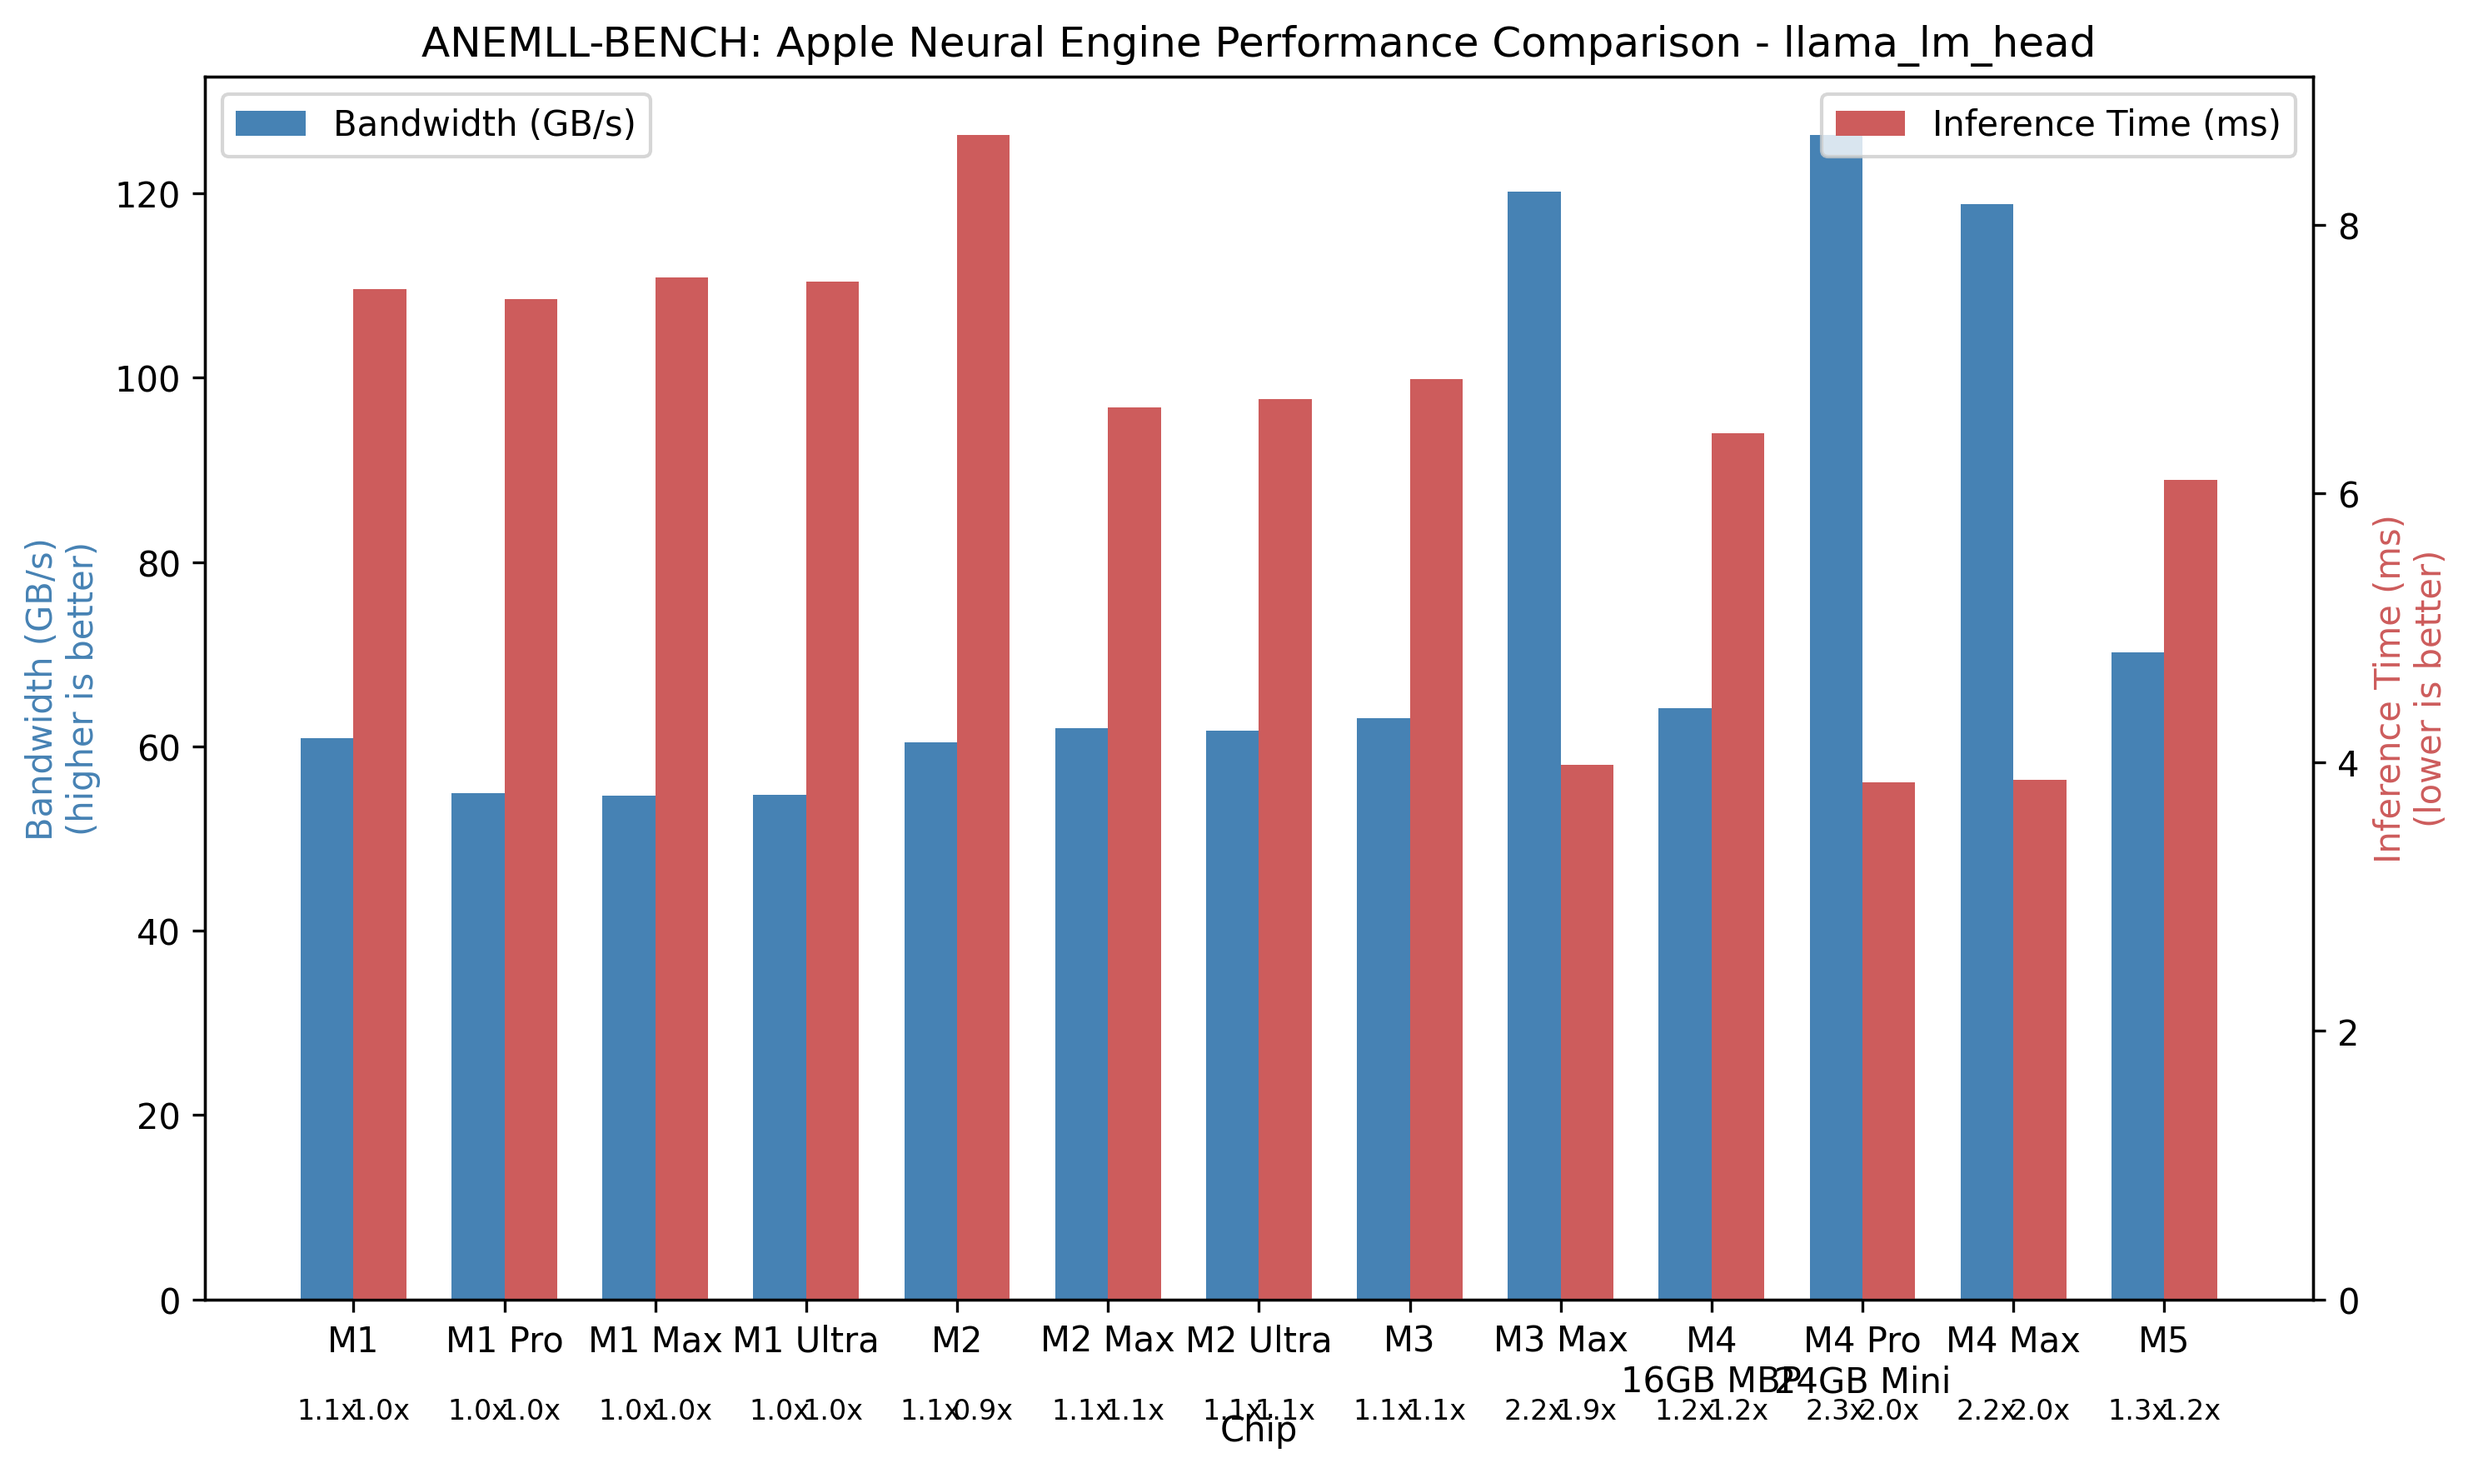
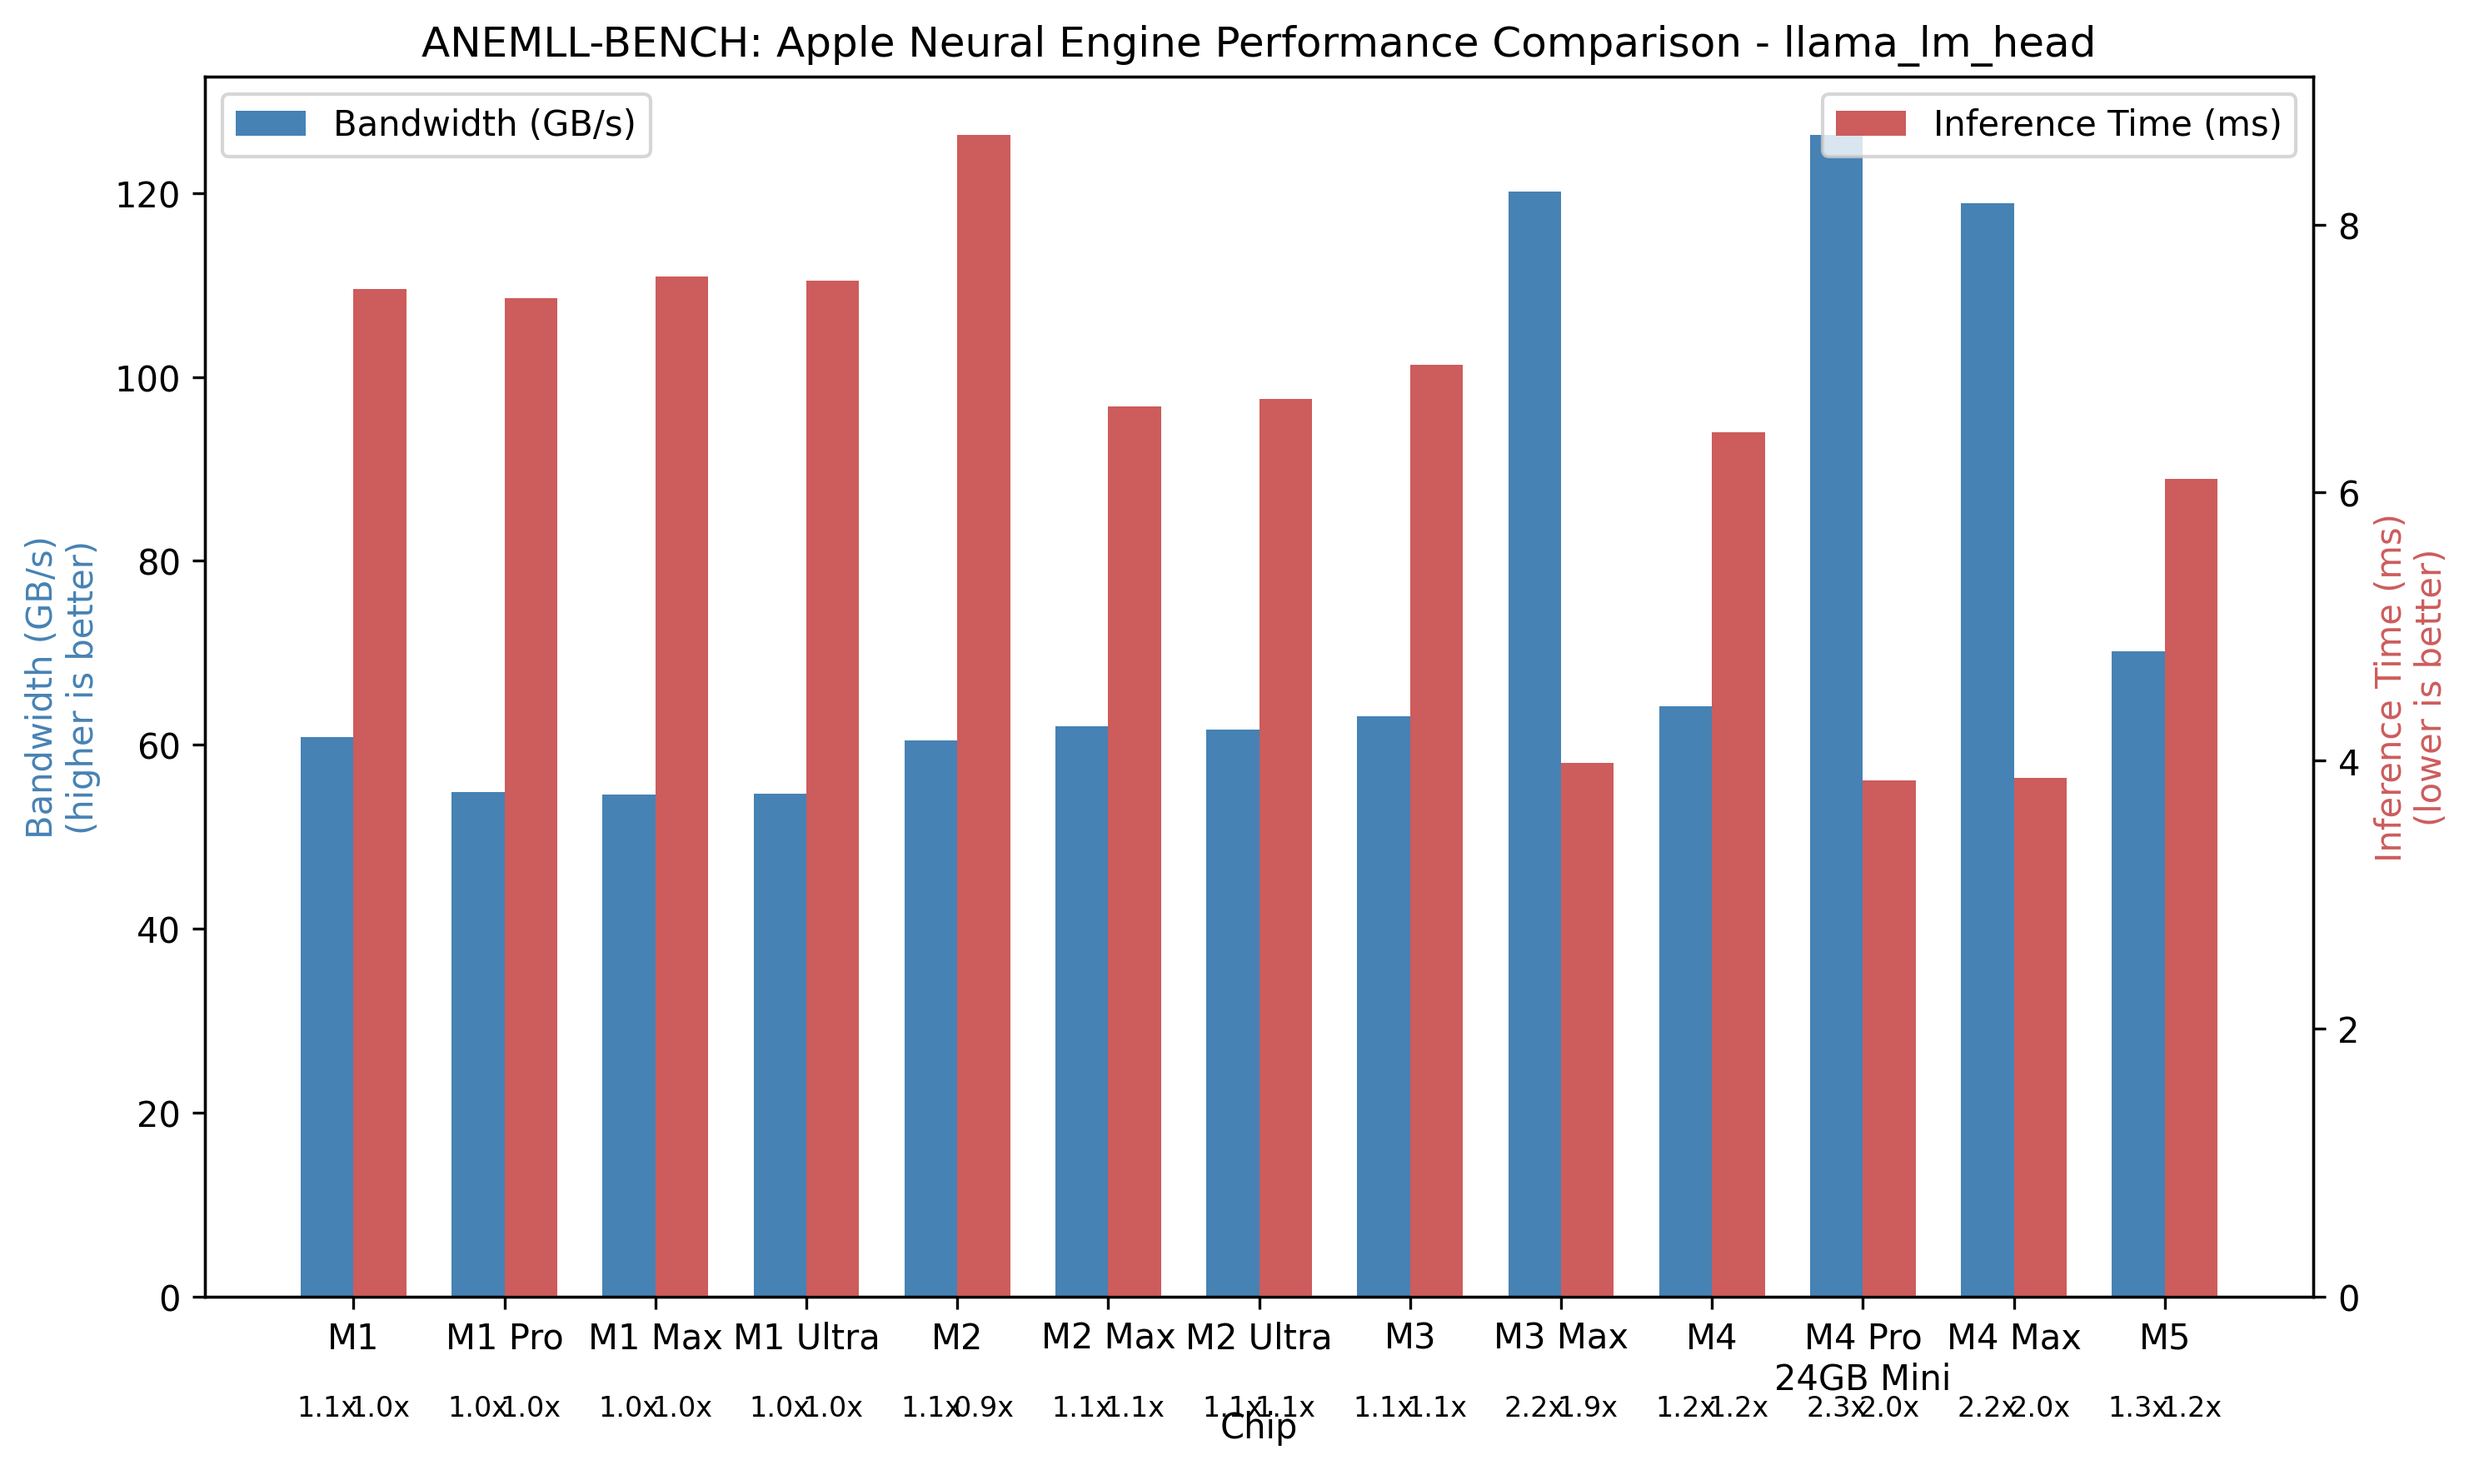
Fixed M3 inference time

diff --git a/examples/plot_chip_comparison.py b/examples/plot_chip_comparison.py
@@ -8,6 +8,9 @@ import os
 import sys
 import argparse
 from pathlib import Path
+import matplotlib
+# Force non-interactive backend for headless PNG generation
+matplotlib.use('Agg')
 
 # Add parent directory to path to allow running this script directly
 parent_dir = str(Path(__file__).resolve().parent.parent)
@@ -25,9 +28,9 @@ def main():
     args = parser.parse_args()
 
     # Sample data from llama_lm_head model benchmarks
-    chips = ['M1', 'M1 Pro', 'M1 Max', 'M1 Ultra', 'M2', 'M2 Max', 'M2 Ultra', 'M3', 'M3 Max', 'M4\n16GB MBP', 'M4 Pro\n24GB Mini', 'M4 Max', 'M5']
+    chips = ['M1', 'M1 Pro', 'M1 Max', 'M1 Ultra', 'M2', 'M2 Max', 'M2 Ultra', 'M3', 'M3 Max', 'M4', 'M4 Pro\n24GB Mini', 'M4 Max', 'M5']
     bandwidth = [60.87, 54.90, 54.62, 54.72, 60.45, 62.01, 61.68, 63.10, 120.22, 64.18, 126.36, 118.88, 70.21]  # GB/s (llama_lm_head)
-    inference = [7.52, 7.45, 7.61, 7.58, 8.67, 6.64, 6.70, 6.85, 3.98, 6.45, 3.85, 3.87, 6.10]           # ms (llama_lm_head_lut6 for M3 base)
+    inference = [7.52, 7.45, 7.61, 7.58, 8.67, 6.64, 6.70, 6.95, 3.98, 6.45, 3.85, 3.87, 6.10]           # ms (llama_lm_head_lut6 for M3 base)
     bandwidth_factor = ['1.1x', '1.0x', '1.0x', '1.0x', '1.1x', '1.1x', '1.1x', '1.1x', '2.2x', '1.2x', '2.3x', '2.2x', '1.3x']
     inference_factor = ['1.0x', '1.0x', '1.0x', '1.0x', '0.9x', '1.1x', '1.1x', '1.1x', '1.9x', '1.2x', '2.0x', '2.0x', '1.2x']
 

diff --git a/examples/generate_results_report.py b/examples/generate_results_report.py
@@ -44,7 +44,7 @@ def generate_visualizations(args):
     
     # Sample data from benchmark results
     # In a real implementation, this would come from parsing the benchmark results file
-    chips = ['M1', 'M1 Pro', 'M1 Max', 'M1 Ultra', 'M2', 'M2 Max', 'M2 Ultra', 'M3 Max', 'M4\n16GB MBP', 'M4 Pro\n24GB Mini', 'M4 Max']
+    chips = ['M1', 'M1 Pro', 'M1 Max', 'M1 Ultra', 'M2', 'M2 Max', 'M2 Ultra', 'M3 Max', 'M4', 'M4 Pro\n24GB Mini', 'M4 Max']
     bandwidth = [60.87, 54.90, 54.62, 54.72, 60.45, 62.01, 61.68, 120.22, 64.18, 126.36, 118.88]  # GB/s (llama_lm_head)
     inference = [7.52, 7.45, 7.61, 7.58, 8.67, 6.64, 6.70, 3.98, 6.45, 3.85, 3.87]           # ms (llama_lm_head_lut6)
     bandwidth_factor = ['1.1x', '1.0x', '1.0x', '1.0x', '1.1x', '1.1x', '1.1x', '2.2x', '1.2x', '2.3x', '2.2x']

diff --git a/Results.MD b/Results.MD
@@ -20,7 +20,7 @@ Higher memory bandwidth and lower inference time indicate better performance.
 
 The chart below shows performance comparison across Apple Silicon generations for the `llama_lm_head` model:
 
-![Apple Silicon Performance Comparison](./reports/chip_comparison_llama_lm_head.png?v=20251028_v5)
+![Apple Silicon Performance Comparison](./reports/chip_comparison_llama_lm_head.png?v=20251029_v1)
 
 As shown in the visualization:
 - **M4 Series** chips demonstrate approximately 2.3x higher memory bandwidth compared to M1 series
@@ -42,9 +42,9 @@ As shown in the visualization:
 | M2 | 60.45 | 8.67 | 1.1x | 0.9x |
 | M2 Max | 62.01 | 6.64 | 1.1x | 1.1x |
 | M2 Ultra | 61.68 | 6.70 | 1.1x | 1.1x |
-| M3 | 63.10 | 16.65 | 1.2x | 0.5x |
+| M3 | 63.10 | 6.95 | 1.2x | 1.1x |
 | M3 Max | 120.22 | 3.98 | 2.2x | 1.9x |
-| M4 16GB MBP  | 64.18 | 6.45 | 1.2x | 1.2x |
+| M4 | 64.18 | 6.45 | 1.2x | 1.2x |
 | M4 Pro 24GB Mini| 126.36 | 3.85 | 2.3x | 2.0x |
 | M4 Max | 118.88 | 3.87 | 2.2x | 2.0x |
 | M5 | 70.21 | 6.10 | 1.3x | 1.2x |

diff --git a/README.md b/README.md
@@ -36,7 +36,7 @@ ANEMLL-Bench is part on ANEMLL Open Source Project [anemll.com](https://anemll.c
 
 ## 📊 [View Benchmark Results](./Results.MD) 📊
 
-[![Apple Silicon Performance Comparison](./reports/chip_comparison_llama_lm_head.png?v=20251015_v1)](./Results.MD)
+[![Apple Silicon Performance Comparison](./reports/chip_comparison_llama_lm_head.png?v=20251029_v1)](./Results.MD)
 
 Check out our latest [benchmark results](./Results.MD) comparing performance across different Apple Silicon chips (M1, M2, M3, M4 series).
 
